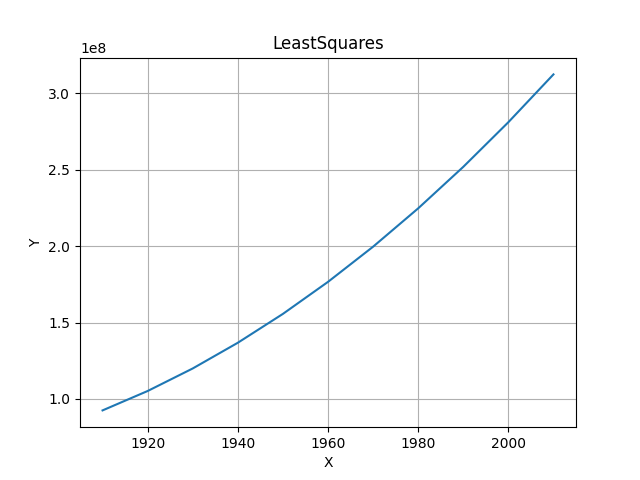
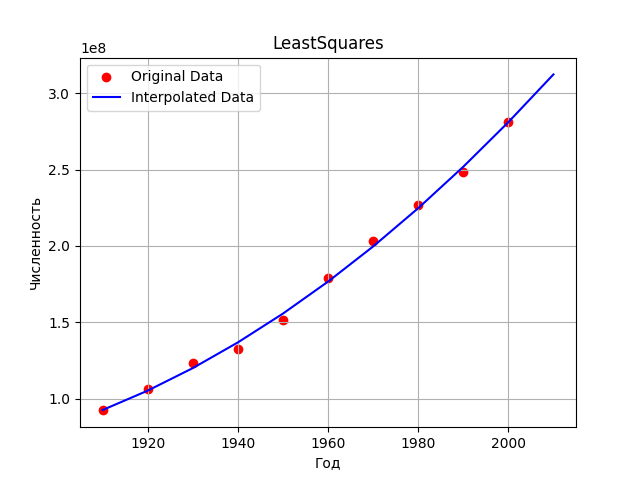
Task 4 done

diff --git a/4Task/interpolation.py b/4Task/interpolation.py
@@ -78,30 +78,34 @@ class LeastSqApprox(InterpolationMethod):
     def get_value(self, x):
         return self.coefs[0] * x**2 + self.coefs[1] * x + self.coefs[2]
 
-data = {
-    1910: 92228496,
-    1920: 106021537,
-    1930: 123202624,
-    1940: 132164569,
-    1950: 151325798,
-    1960: 179323175,
-    1970: 203211926,
-    1980: 226545805,
-    1990: 248709873,
-    2000: 281421906
-}
+def main():
+    data = {
+        1910: 92228496,
+        1920: 106021537,
+        1930: 123202624,
+        1940: 132164569,
+        1950: 151325798,
+        1960: 179323175,
+        1970: 203211926,
+        1980: 226545805,
+        1990: 248709873,
+        2000: 281421906
+    }
+    y_data = list(data.values())
+    x_data = list(data.keys())
+    methods = [NewtonApprox(x_data, y_data), SplineApprox(x_data, y_data), LeastSqApprox(x_data, y_data)]
+    x_data_plot = list(range(1910, 2020, 10))
+    for method in methods:
+        new_y_data = [method.get_value(x_value) for x_value in x_data_plot]
+        plt.title(method.get_name())
+        plt.ylabel("Численность")
+        plt.xlabel("Год")
+        plt.grid(True)  
+        plt.scatter(x_data, y_data, color='red', label='Original Data')  
+        plt.plot(x_data_plot, new_y_data, color='blue', label='Interpolated Data') 
+        plt.legend() 
+        plt.savefig("img/" + method.get_name())
+        plt.show()
 
-y_data = list(data.values())
-x_data = list(data.keys())
-methods = [NewtonApprox(x_data, y_data), SplineApprox(x_data, y_data), LeastSqApprox(x_data, y_data)]
-x_data_plot = list(range(1910, 2020, 10))
-for method in methods:
-    new_y_data = [method.get_value(x_value) for x_value in x_data_plot]
-    plt.title(method.get_name())
-    plt.ylabel("Y")
-    plt.xlabel("X")
-    plt.grid()
-    plt.plot(x_data_plot, new_y_data)
-    plt.savefig("img/" + method.get_name())
-    plt.show()
-
+if __name__ == '__main__':
+    main()
